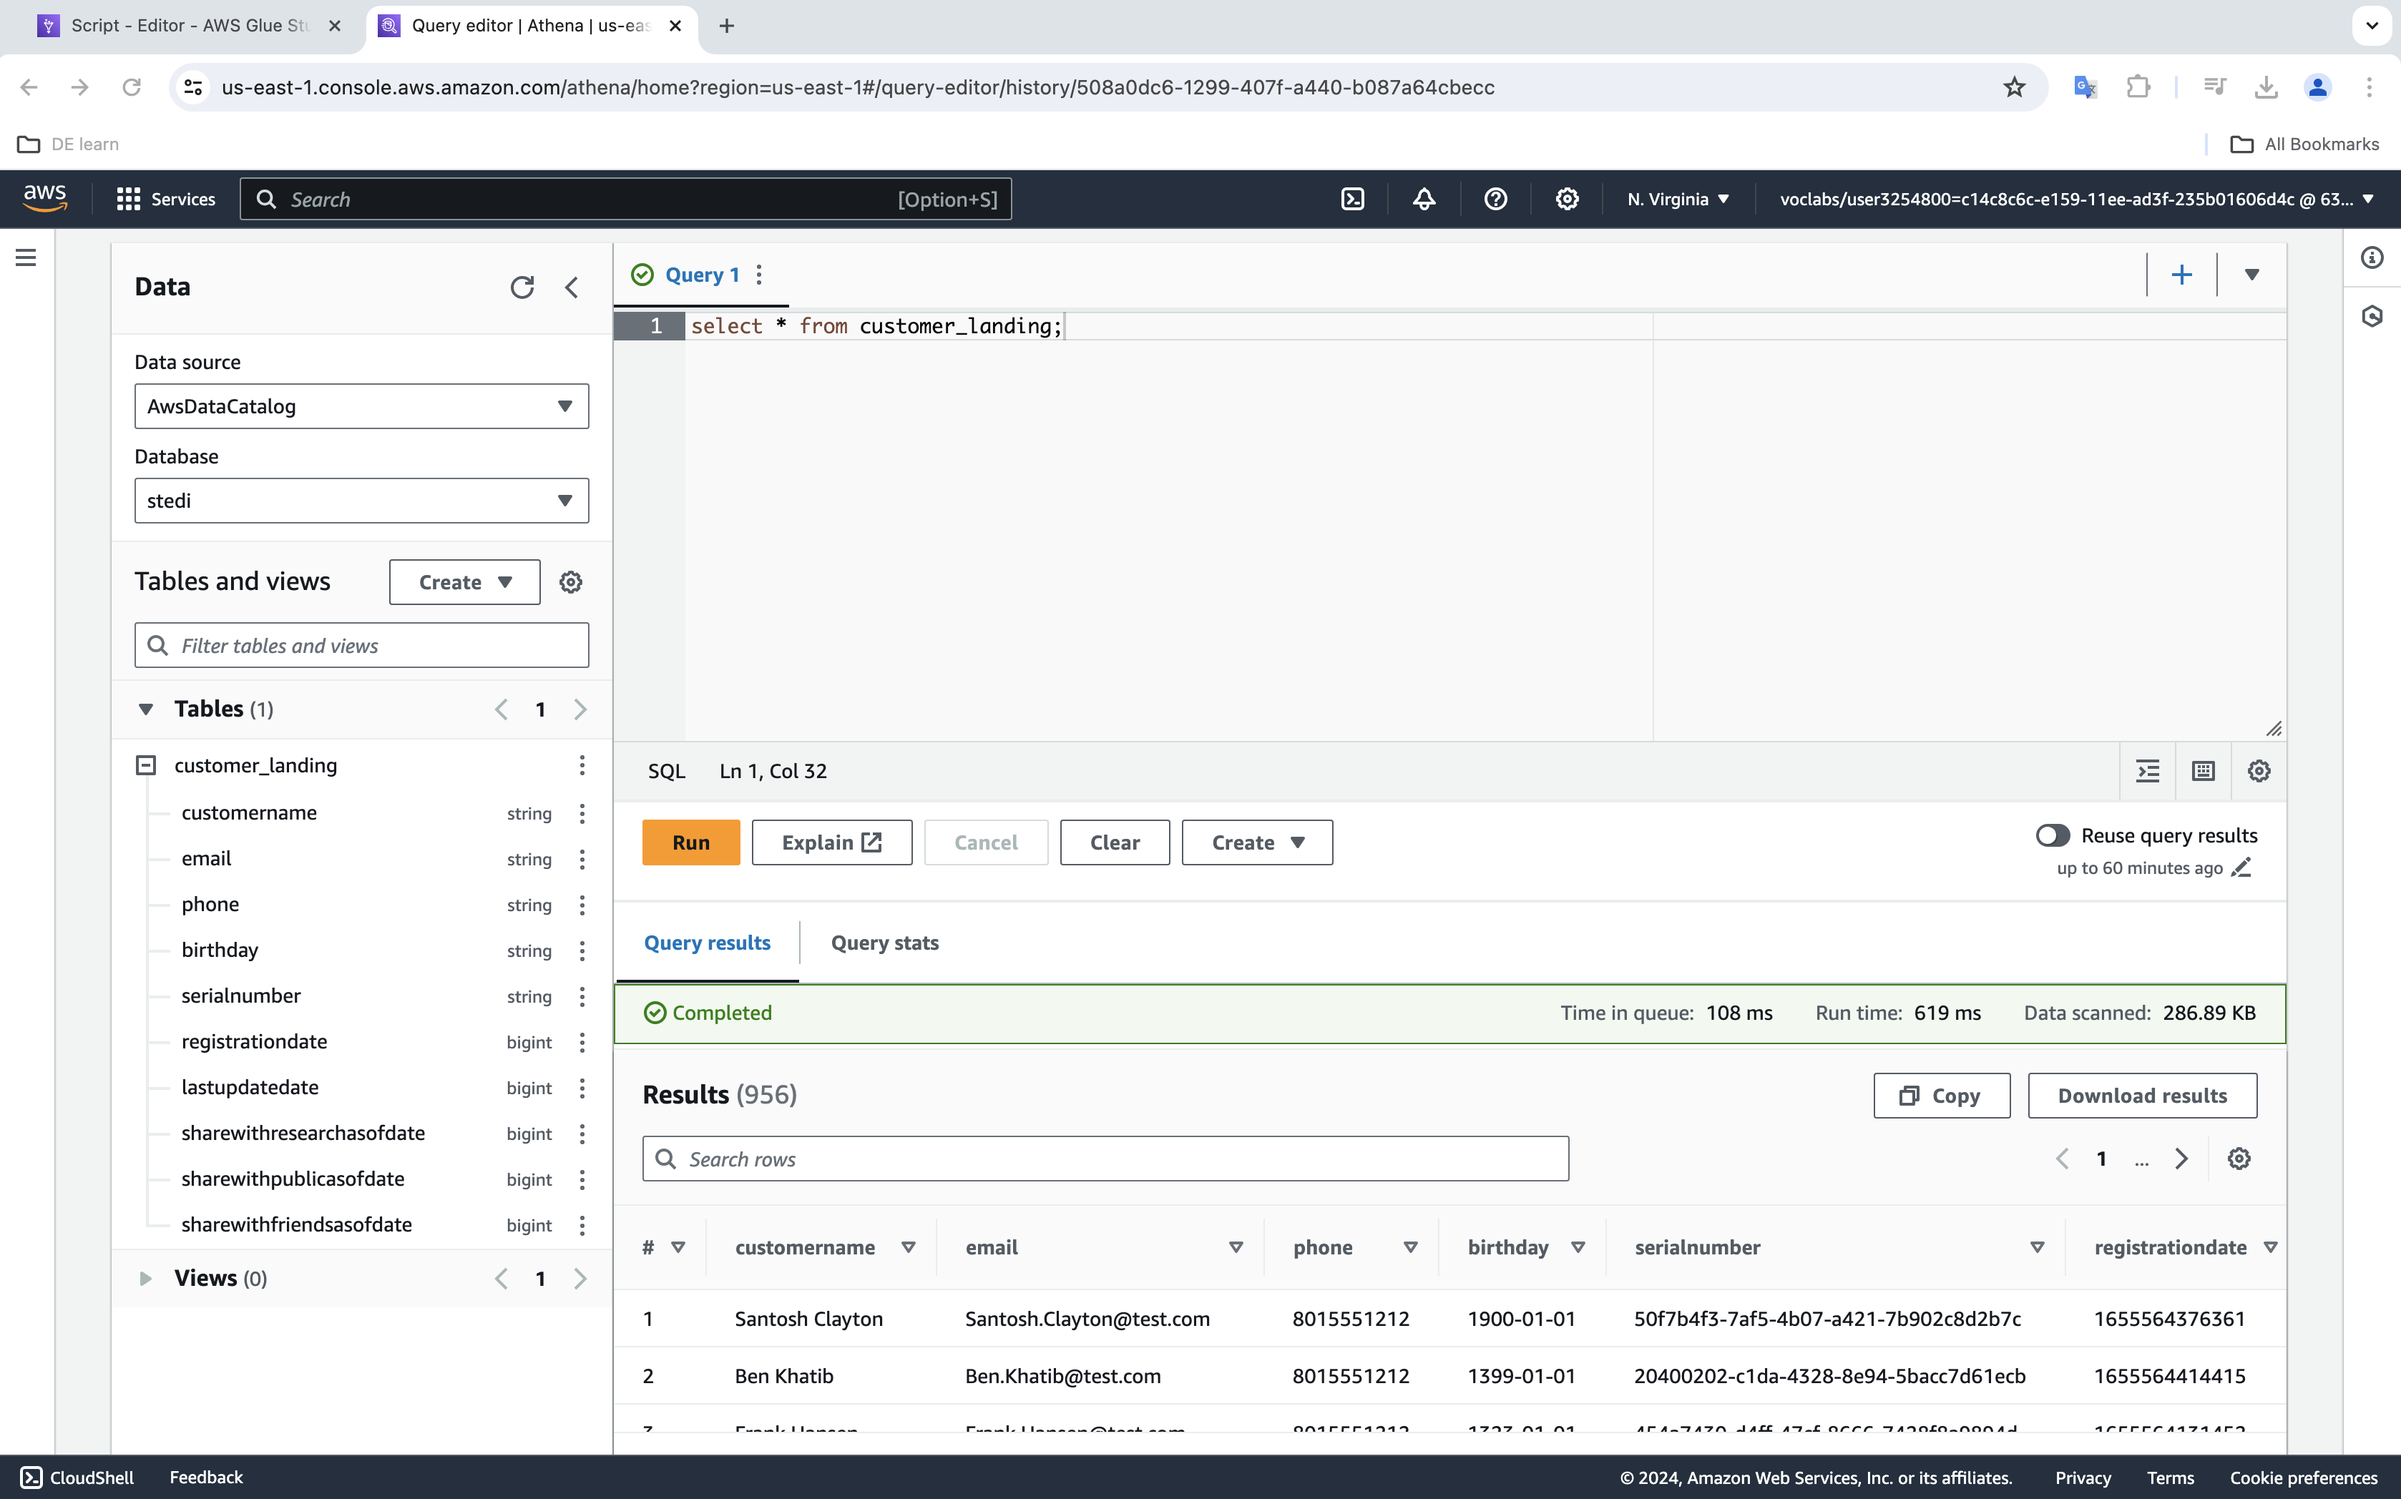
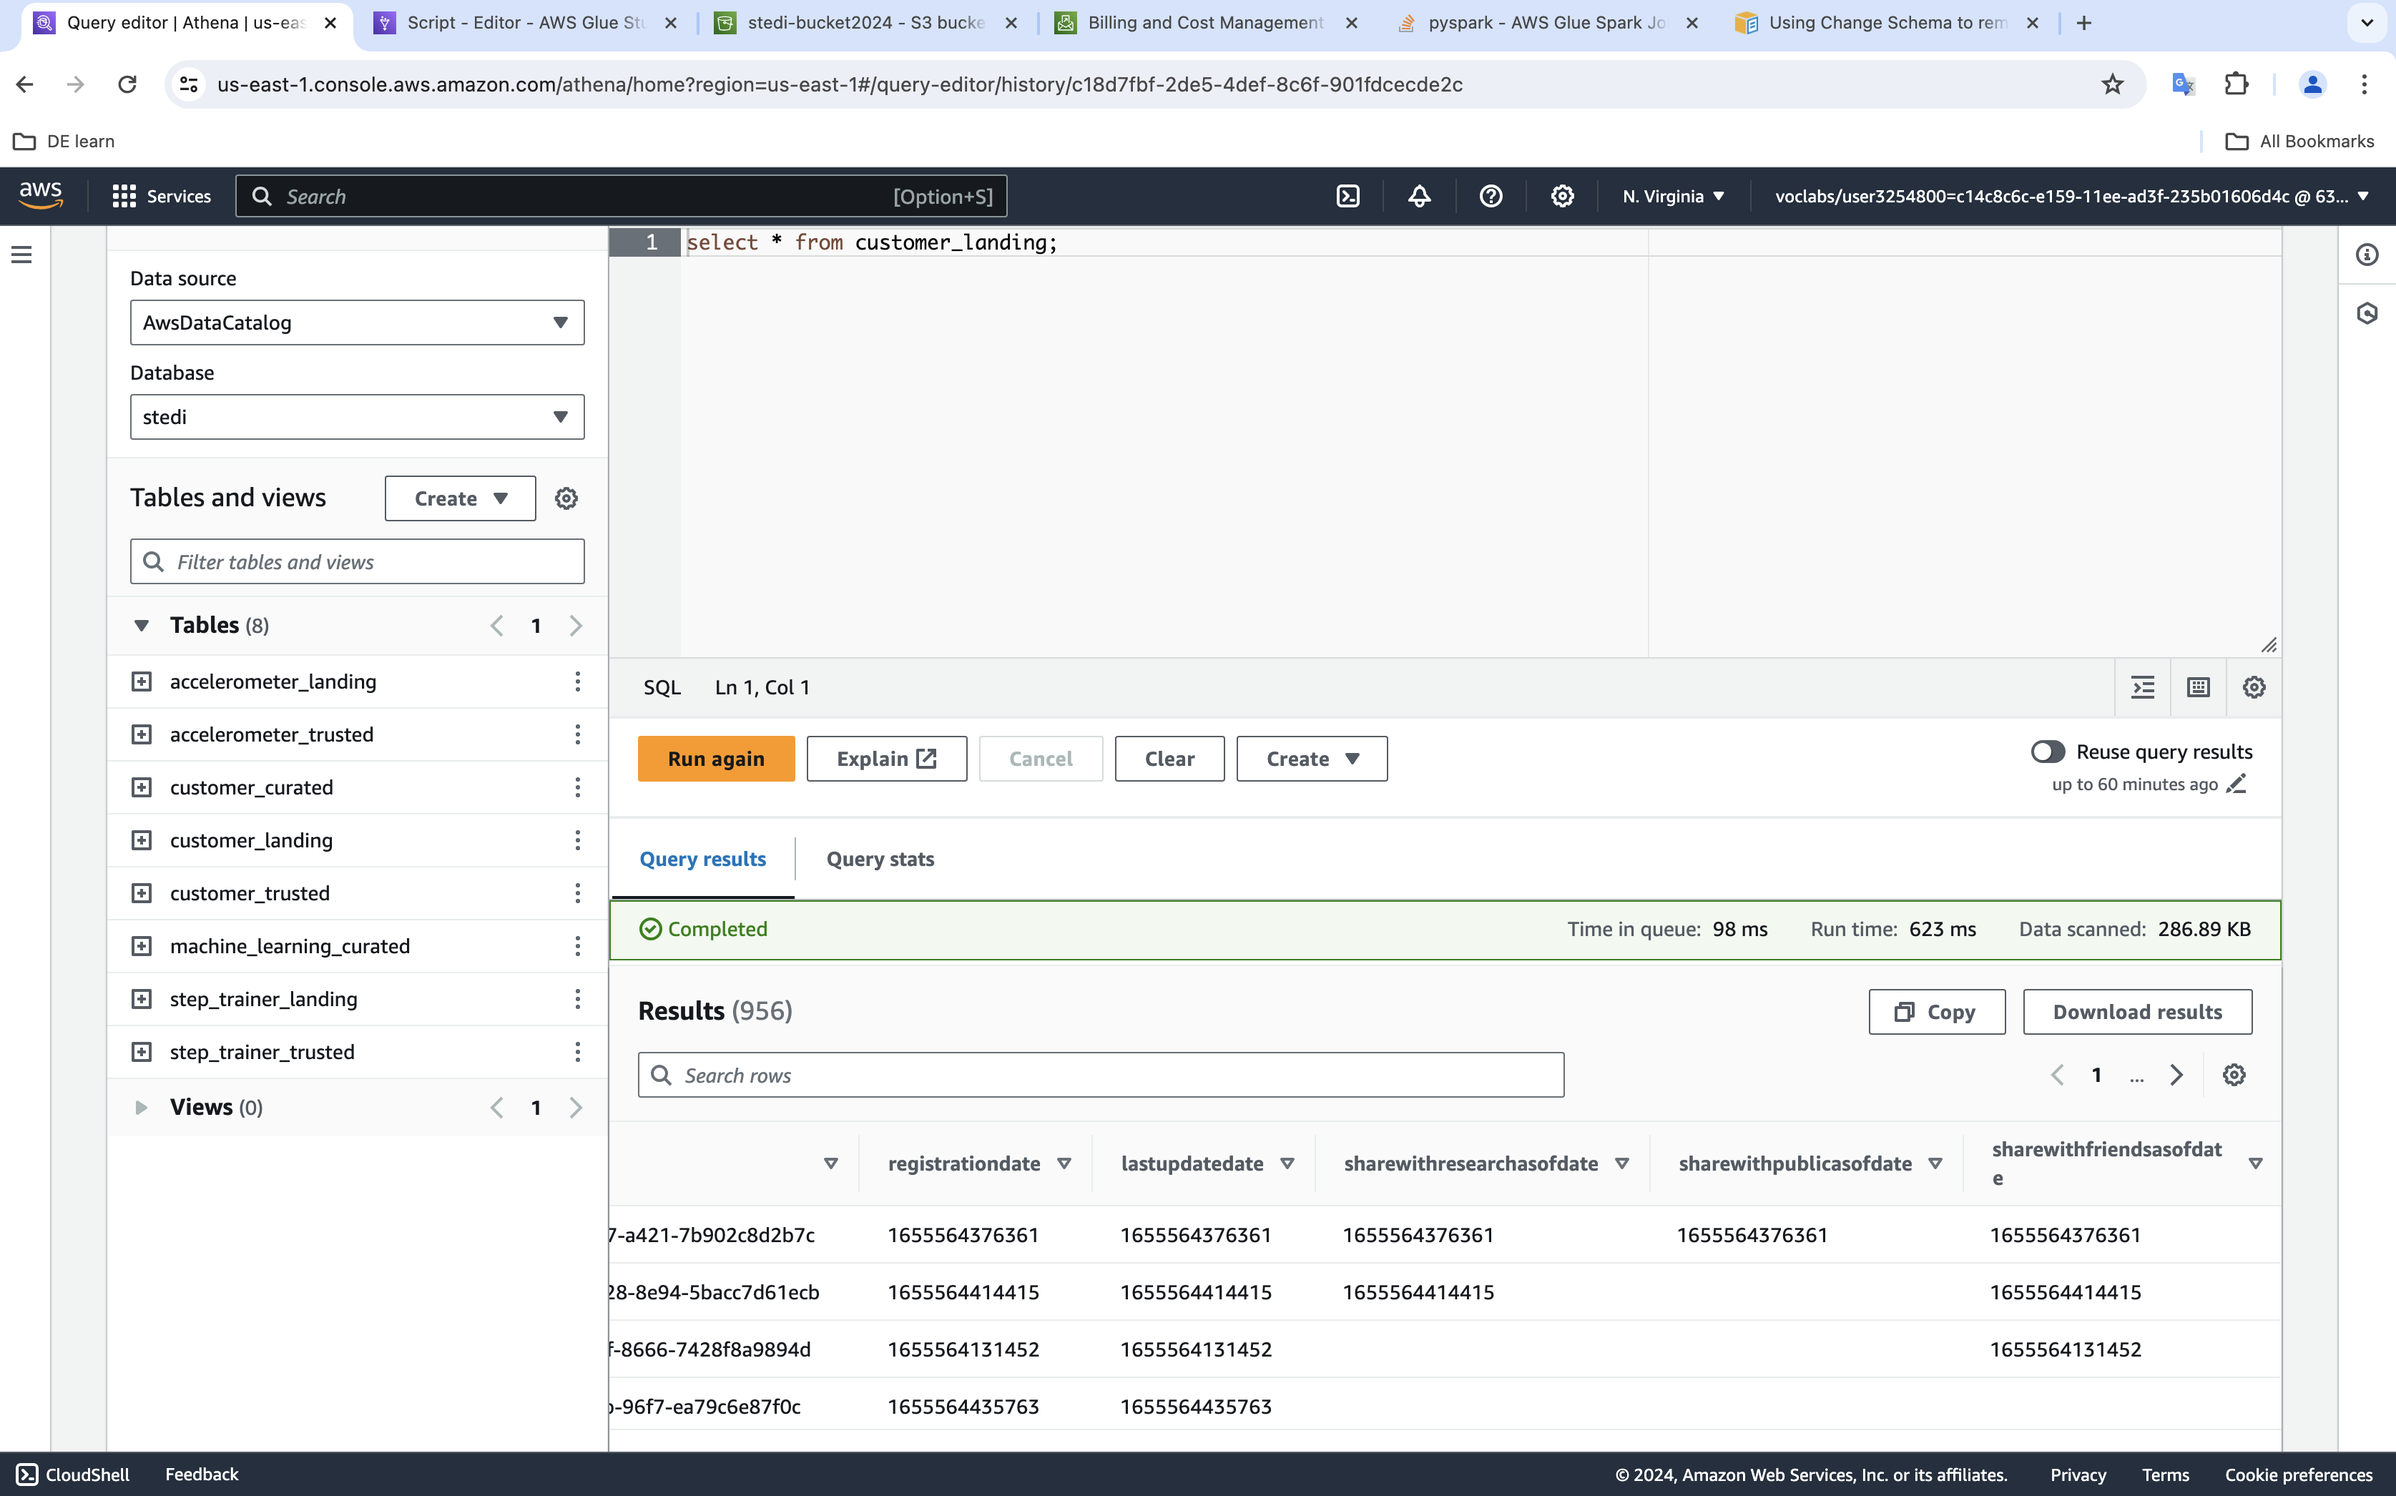
update code due to review

diff --git a/Scripts/customer_landing_to_trusted.py b/Scripts/customer_landing_to_trusted.py
@@ -14,12 +14,14 @@ job = Job(glueContext)
 job.init(args['JOB_NAME'], args)
 
 # Script generated for node Customer Landing
-CustomerLanding_node1685352066932 = glueContext.create_dynamic_frame.from_options(format_options={"multiline": False}, connection_type="s3", format="json", connection_options={"paths": ["s3://stedi-bucket2024/customer/landing/customer-1691348231425.json"], "recurse": True}, transformation_ctx="CustomerLanding_node1685352066932")
+CustomerLanding_node1718594729182 = glueContext.create_dynamic_frame.from_options(format_options={"multiline": True}, connection_type="s3", format="json", connection_options={"paths": ["s3://stedi-bucket2024/customer/landing/"], "recurse": True}, transformation_ctx="CustomerLanding_node1718594729182")
 
 # Script generated for node PrivacyFilter
-PrivacyFilter_node1718579583577 = Filter.apply(frame=CustomerLanding_node1685352066932, f=lambda row: (not(row["sharewithresearchasofdate"] == 0)), transformation_ctx="PrivacyFilter_node1718579583577")
+PrivacyFilter_node1718594736325 = Filter.apply(frame=CustomerLanding_node1718594729182, f=lambda row: (not(row["shareWithResearchAsOfDate"] == 0)), transformation_ctx="PrivacyFilter_node1718594736325")
 
-# Script generated for node Customer Trusted
-CustomerTrusted_node1685352920969 = glueContext.write_dynamic_frame.from_options(frame=PrivacyFilter_node1718579583577, connection_type="s3", format="json", connection_options={"path": "s3://stedi-bucket2024/customer/trusted/", "partitionKeys": []}, transformation_ctx="CustomerTrusted_node1685352920969")
-
+# Script generated for node Amazon S3
+AmazonS3_node1718594851431 = glueContext.getSink(path="s3://stedi-bucket2024/customer/trusted/", connection_type="s3", updateBehavior="UPDATE_IN_DATABASE", partitionKeys=[], enableUpdateCatalog=True, transformation_ctx="AmazonS3_node1718594851431")
+AmazonS3_node1718594851431.setCatalogInfo(catalogDatabase="stedi",catalogTableName="customer_trusted")
+AmazonS3_node1718594851431.setFormat("json")
+AmazonS3_node1718594851431.writeFrame(PrivacyFilter_node1718594736325)
 job.commit()

diff --git a/Scripts/step_trainer_landing_to_trusted.py b/Scripts/step_trainer_landing_to_trusted.py
@@ -36,6 +36,8 @@ SQLQuery_node1718641365439 = sparkSqlQuery(glueContext, query = SqlQuery0, mappi
 SelectFields_node1718612994805 = SelectFields.apply(frame=SQLQuery_node1718641365439, paths=["serialnumber", "sensorreadingtime", "distancefromobject", "sensorReadingTime", "serialNumber", "distanceFromObject"], transformation_ctx="SelectFields_node1718612994805")
 
 # Script generated for node Step Trainer Trusted
-StepTrainerTrusted_node1718610839029 = glueContext.write_dynamic_frame.from_options(frame=SelectFields_node1718612994805, connection_type="s3", format="json", connection_options={"path": "s3://stedi-bucket2024/step_trainer/trusted/", "partitionKeys": []}, transformation_ctx="StepTrainerTrusted_node1718610839029")
-
+StepTrainerTrusted_node1718610839029 = glueContext.getSink(path="s3://stedi-bucket2024/step_trainer/trusted/", connection_type="s3", updateBehavior="UPDATE_IN_DATABASE", partitionKeys=[], enableUpdateCatalog=True, transformation_ctx="StepTrainerTrusted_node1718610839029")
+StepTrainerTrusted_node1718610839029.setCatalogInfo(catalogDatabase="stedi",catalogTableName="step_trainer_trusted")
+StepTrainerTrusted_node1718610839029.setFormat("json")
+StepTrainerTrusted_node1718610839029.writeFrame(SelectFields_node1718612994805)
 job.commit()

diff --git a/Scripts/accelerometer_landing_to_trusted.py b/Scripts/accelerometer_landing_to_trusted.py
@@ -25,6 +25,8 @@ Join_node1718614477330 = Join.apply(frame1=CustomerTrusted_node1718614320397, fr
 SelectFields_node1718630890323 = SelectFields.apply(frame=Join_node1718614477330, paths=["z", "y", "x", "timestamp", "user"], transformation_ctx="SelectFields_node1718630890323")
 
 # Script generated for node Accelerometer Trusted
-AccelerometerTrusted_node1718614522741 = glueContext.write_dynamic_frame.from_options(frame=SelectFields_node1718630890323, connection_type="s3", format="json", connection_options={"path": "s3://stedi-bucket2024/accelerometer/trusted/", "partitionKeys": []}, transformation_ctx="AccelerometerTrusted_node1718614522741")
-
+AccelerometerTrusted_node1718614522741 = glueContext.getSink(path="s3://stedi-bucket2024/accelerometer/trusted/", connection_type="s3", updateBehavior="UPDATE_IN_DATABASE", partitionKeys=[], enableUpdateCatalog=True, transformation_ctx="AccelerometerTrusted_node1718614522741")
+AccelerometerTrusted_node1718614522741.setCatalogInfo(catalogDatabase="stedi",catalogTableName="accelerometer_trusted")
+AccelerometerTrusted_node1718614522741.setFormat("json")
+AccelerometerTrusted_node1718614522741.writeFrame(SelectFields_node1718630890323)
 job.commit()

diff --git a/README.md b/README.md
@@ -122,14 +122,16 @@ The STEDI team wants to use the motion sensor data to train a machine learning m
     job.init(args['JOB_NAME'], args)
 
     # Script generated for node Customer Landing
-    CustomerLanding_node1685352066932 = glueContext.create_dynamic_frame.from_options(format_options={"multiline": False}, connection_type="s3", format="json", connection_options={"paths": ["s3://stedi-bucket2024/customer/landing/customer-1691348231425.json"], "recurse": True}, transformation_ctx="CustomerLanding_node1685352066932")
+    CustomerLanding_node1718594729182 = glueContext.create_dynamic_frame.from_options(format_options={"multiline": True}, connection_type="s3", format="json", connection_options={"paths": ["s3://stedi-bucket2024/customer/landing/"], "recurse": True}, transformation_ctx="CustomerLanding_node1718594729182")
 
     # Script generated for node PrivacyFilter
-    PrivacyFilter_node1718579583577 = Filter.apply(frame=CustomerLanding_node1685352066932, f=lambda row: (not(row["sharewithresearchasofdate"] == 0)), transformation_ctx="PrivacyFilter_node1718579583577")
+    PrivacyFilter_node1718594736325 = Filter.apply(frame=CustomerLanding_node1718594729182, f=lambda row: (not(row["shareWithResearchAsOfDate"] == 0)), transformation_ctx="PrivacyFilter_node1718594736325")
 
-    # Script generated for node Customer Trusted
-    CustomerTrusted_node1685352920969 = glueContext.write_dynamic_frame.from_options(frame=PrivacyFilter_node1718579583577, connection_type="s3", format="json", connection_options={"path": "s3://stedi-bucket2024/customer/trusted/", "partitionKeys": []}, transformation_ctx="CustomerTrusted_node1685352920969")
-
+    # Script generated for node Amazon S3
+    AmazonS3_node1718594851431 = glueContext.getSink(path="s3://stedi-bucket2024/customer/trusted/", connection_type="s3", updateBehavior="UPDATE_IN_DATABASE", partitionKeys=[], enableUpdateCatalog=True, transformation_ctx="AmazonS3_node1718594851431")
+    AmazonS3_node1718594851431.setCatalogInfo(catalogDatabase="stedi",catalogTableName="customer_trusted")
+    AmazonS3_node1718594851431.setFormat("json")
+    AmazonS3_node1718594851431.writeFrame(PrivacyFilter_node1718594736325)
     job.commit()
 ```
 
@@ -162,8 +164,10 @@ The STEDI team wants to use the motion sensor data to train a machine learning m
     SelectFields_node1718630890323 = SelectFields.apply(frame=Join_node1718614477330, paths=["z", "y", "x", "timestamp", "user"], transformation_ctx="SelectFields_node1718630890323")
 
     # Script generated for node Accelerometer Trusted
-    AccelerometerTrusted_node1718614522741 = glueContext.write_dynamic_frame.from_options(frame=SelectFields_node1718630890323, connection_type="s3", format="json", connection_options={"path": "s3://stedi-bucket2024/accelerometer/trusted/", "partitionKeys": []}, transformation_ctx="AccelerometerTrusted_node1718614522741")
-
+    AccelerometerTrusted_node1718614522741 = glueContext.getSink(path="s3://stedi-bucket2024/accelerometer/trusted/", connection_type="s3", updateBehavior="UPDATE_IN_DATABASE", partitionKeys=[], enableUpdateCatalog=True, transformation_ctx="AccelerometerTrusted_node1718614522741")
+    AccelerometerTrusted_node1718614522741.setCatalogInfo(catalogDatabase="stedi",catalogTableName="accelerometer_trusted")
+    AccelerometerTrusted_node1718614522741.setFormat("json")
+    AccelerometerTrusted_node1718614522741.writeFrame(SelectFields_node1718630890323)
     job.commit()
 ```
 
@@ -207,13 +211,18 @@ The STEDI team wants to use the motion sensor data to train a machine learning m
     SelectFields_node1718612994805 = SelectFields.apply(frame=SQLQuery_node1718641365439, paths=["serialnumber", "sensorreadingtime", "distancefromobject", "sensorReadingTime", "serialNumber", "distanceFromObject"], transformation_ctx="SelectFields_node1718612994805")
 
     # Script generated for node Step Trainer Trusted
-    StepTrainerTrusted_node1718610839029 = glueContext.write_dynamic_frame.from_options(frame=SelectFields_node1718612994805, connection_type="s3", format="json", connection_options={"path": "s3://stedi-bucket2024/step_trainer/trusted/", "partitionKeys": []}, transformation_ctx="StepTrainerTrusted_node1718610839029")
-
+    StepTrainerTrusted_node1718610839029 = glueContext.getSink(path="s3://stedi-bucket2024/step_trainer/trusted/", connection_type="s3", updateBehavior="UPDATE_IN_DATABASE", partitionKeys=[], enableUpdateCatalog=True, transformation_ctx="StepTrainerTrusted_node1718610839029")
+    StepTrainerTrusted_node1718610839029.setCatalogInfo(catalogDatabase="stedi",catalogTableName="step_trainer_trusted")
+    StepTrainerTrusted_node1718610839029.setFormat("json")
+    StepTrainerTrusted_node1718610839029.writeFrame(SelectFields_node1718612994805)
     job.commit()
 ```
 
 #### `Count of customer_trusted: 482 rows`
 ![Count of customer_trusted](./Images/customer_trusted.png)
+
+#### `Customer_trusted with sharewithresearchasofdate IS NULL`
+![Customer_trusted with sharewithresearchasofdate IS NULL](./Images/customer_trusted_with_null.png)
 
 #### `Count of accelerometer_trusted: 40981 rows`
 ![Count of accelerometer_trusted](./Images/accelerometer_trusted.png)
